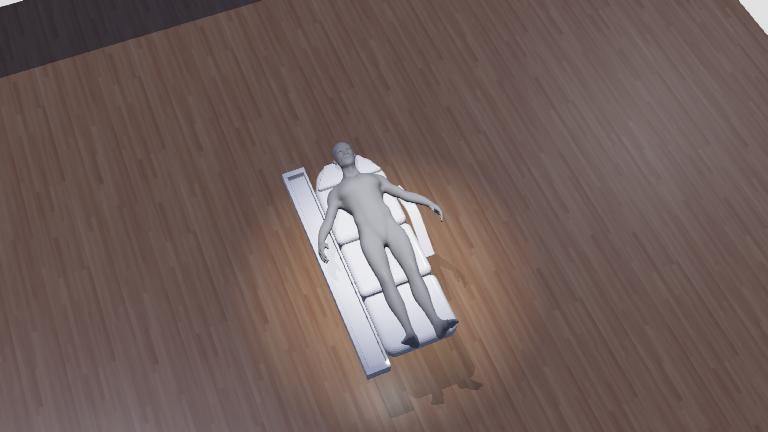
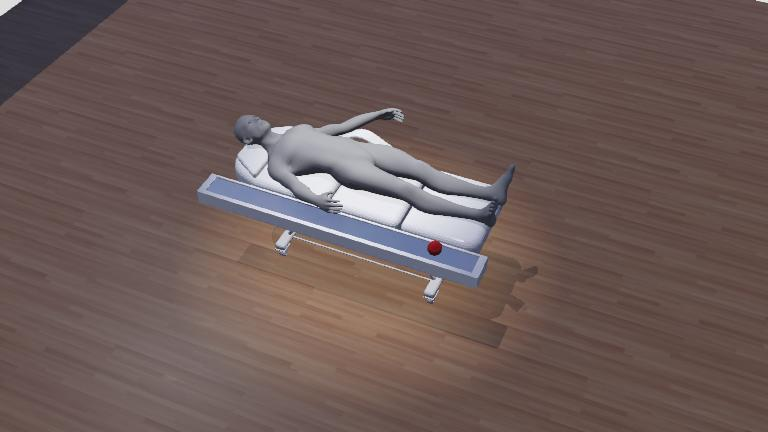
implement slider control based on camera body part tracking

diff --git a/controllers/camera/camera.py b/controllers/camera/camera.py
@@ -1,7 +1,8 @@
-from controller import Robot
+from controller import Robot, Keyboard
 import cv2
 import numpy as np
 import mediapipe as mp
+import struct
 
 mp_pose = mp.solutions.pose
 mp_drawing = mp.solutions.drawing_utils
@@ -12,38 +13,53 @@ pose = mp_pose.Pose(
     min_tracking_confidence=0.5)
 
 BODY_PARTS = {
+    "TESTA": [
+        mp_pose.PoseLandmark.NOSE,
+        mp_pose.PoseLandmark.LEFT_EYE,
+        mp_pose.PoseLandmark.RIGHT_EYE,
+        mp_pose.PoseLandmark.LEFT_EAR,
+        mp_pose.PoseLandmark.RIGHT_EAR
+    ],
     "TORACE": [
         mp_pose.PoseLandmark.LEFT_SHOULDER,
         mp_pose.PoseLandmark.RIGHT_SHOULDER,
         mp_pose.PoseLandmark.LEFT_HIP,
         mp_pose.PoseLandmark.RIGHT_HIP
     ],
+    "GAMBE": [
+        mp_pose.PoseLandmark.LEFT_KNEE,
+        mp_pose.PoseLandmark.RIGHT_KNEE,
+        mp_pose.PoseLandmark.LEFT_ANKLE,
+        mp_pose.PoseLandmark.RIGHT_ANKLE
+    ]
 }
 
-def draw_body_part_box(frame, landmarks, part_name, width, height):
-    if part_name not in BODY_PARTS:
-        return
+def draw_body_part_box(frame, landmarks, part_name, width, height, is_selected=False):
+    if part_name not in BODY_PARTS: return
     points = [landmarks[lm.value] for lm in BODY_PARTS[part_name]]
-    if not all(p.visibility > 0.5 for p in points):
-        return
-    x_min = int(min(p.x for p in points) * width)
-    y_min = int(min(p.y for p in points) * height)
-    x_max = int(max(p.x for p in points) * width)
-    y_max = int(max(p.y for p in points) * height)
+    if not all(p.visibility > 0.5 for p in points): return
+
+    x_vals = [p.x for p in points]
+    y_vals = [p.y for p in points]
+    
+    x_min, x_max = int(min(x_vals) * width), int(max(x_vals) * width)
+    y_min, y_max = int(min(y_vals) * height), int(max(y_vals) * height)
+    
     margin = 10
-    cv2.rectangle(frame, (x_min - margin, y_min - margin), (x_max + margin, y_max + margin), (0, 255, 0), 2)
-    cv2.putText(frame, part_name, (x_min - margin, y_min - margin - 10), cv2.FONT_HERSHEY_SIMPLEX, 0.7, (0, 255, 0), 2)
+    color = (0, 0, 255) if is_selected else (0, 255, 0)
+    thickness = 3 if is_selected else 2
+
+    cv2.rectangle(frame, (x_min - margin, y_min - margin), (x_max + margin, y_max + margin), color, thickness)
+    cv2.putText(frame, part_name, (x_min - margin, y_min - margin - 10), 
+                cv2.FONT_HERSHEY_SIMPLEX, 0.7, color, 2)
 
 def get_part_center(landmarks, part_name, width, height):
-    if part_name not in BODY_PARTS:
-        return None
+    if part_name not in BODY_PARTS: return None
     points = [landmarks[lm.value] for lm in BODY_PARTS[part_name]]
-    if not all(p.visibility > 0.5 for p in points):
-        return None
+    if not all(p.visibility > 0.5 for p in points): return None
     
     u = int(np.mean([p.x for p in points]) * width)
     v = int(np.mean([p.y for p in points]) * height)
-    
     return (u, v)
 
 robot = Robot()
@@ -54,87 +70,86 @@ camera.enable(timestep)
 width = camera.getWidth()
 height = camera.getHeight()
 fov = camera.getFov()
+focal_length = (width / 2) / np.tan(fov / 2)
 
 try:
     range_finder = robot.getDevice('range-finder')
     range_finder.enable(timestep)
-    depth_width = range_finder.getWidth()
-    depth_height = range_finder.getHeight()
-except Exception as e:
-    print(f"Errore: Impossibile trovare 'range-finder'. {e}")
-    print("Assicurati di aver aggiunto un RangeFinder al robot in Webots.")
-    robot.step(-1)
+except:
+    print("Errore: Range-finder non trovato.")
 
-if width != depth_width or height != depth_height:
-    print("Errore: Le dimensioni della camera RGB e del RangeFinder non corrispondono!")
-    robot.step(-1)
+emitter = robot.getDevice('emitter') 
+emitter.setChannel(1) 
 
-focal_length = (width / 2) / np.tan(fov / 2)
-print(f"Camera Info: {width}x{height}, FoV: {fov:.2f} rad, Lunghezza Focale: {focal_length:.2f} px")
+keyboard = robot.getKeyboard()
+keyboard.enable(timestep)
+
+print("--- CONTROLLER AVVIATO ---")
+print("Comandi Tastiera (Click sulla finestra 3D di Webots prima):")
+print(" [1] -> Seleziona TESTA")
+print(" [2] -> Seleziona TORACE")
+print(" [3] -> Seleziona GAMBE")
+print(" [0] -> Nessuna selezione")
+print(" Premi 'Q' nella finestra OpenCV per chiudere.")
+
+current_selection = None 
 
 cv2.namedWindow("Riconoscimento Corpo", cv2.WINDOW_NORMAL)
-print("Controller avviato... Premi 'q' nella finestra per uscire.")
 
 while robot.step(timestep) != -1:
+    key = keyboard.getKey()
+    if key == ord('1'): current_selection = "TESTA"
+    elif key == ord('2'): current_selection = "TORACE"
+    elif key == ord('3'): current_selection = "GAMBE"
+    elif key == ord('0'): current_selection = None
+
     image_data = camera.getImage()
     depth_data = range_finder.getRangeImage()
-
-    if not image_data or not depth_data:
-        continue
+    if not image_data or not depth_data: continue
     
     image = np.frombuffer(image_data, np.uint8).reshape((height, width, 4))
     frame_bgr = cv2.cvtColor(image, cv2.COLOR_BGRA2BGR)
     frame_rgb = cv2.cvtColor(frame_bgr, cv2.COLOR_BGR2RGB)
-    
     depth_image = np.array(depth_data, dtype=np.float32).reshape((height, width))
 
     results = pose.process(frame_rgb)
 
     if results.pose_landmarks:
-        mp_drawing.draw_landmarks(frame_bgr, results.pose_landmarks, mp_pose.POSE_CONNECTIONS)
-        
         landmarks = results.pose_landmarks.landmark
-        
-        draw_body_part_box(frame_bgr, landmarks, "TORACE", width, height)
-        
-        target_2d = get_part_center(landmarks, "TORACE", width, height)
-        
-        if target_2d:
-            u, v = target_2d
-            
-            cv2.circle(frame_bgr, (u, v), 10, (0, 0, 255), -1)
 
-            box_size = 7
-            half_box = box_size // 2
+        for part in BODY_PARTS:
+            is_selected = (part == current_selection)
+            draw_body_part_box(frame_bgr, landmarks, part, width, height, is_selected)
+
+        if current_selection:
+            target_2d = get_part_center(landmarks, current_selection, width, height)
             
-            y_min_roi = max(0, v - half_box)
-            y_max_roi = min(height, v + half_box + 1)
-            x_min_roi = max(0, u - half_box)
-            x_max_roi = min(width, u + half_box + 1)
-            
-            depth_roi = depth_image[y_min_roi:y_max_roi, x_min_roi:x_max_roi]
-            
-            valid_depths = depth_roi[depth_roi > 0.01]
-            
-            if valid_depths.size > 0:
-                Z = np.median(valid_depths)
-            else:
-                Z = 0.0
-            
-            if Z > 0.01 and Z < 20.0:
-               
-                X = (u - width / 2) * Z / focal_length
+            if target_2d:
+                u, v = target_2d
+                box_size = 10
+                y_min_roi = max(0, v - box_size)
+                y_max_roi = min(height, v + box_size)
+                x_min_roi = max(0, u - box_size)
+                x_max_roi = min(width, u + box_size)
                 
-                Y = (v - height / 2) * Z / focal_length
+                depth_roi = depth_image[y_min_roi:y_max_roi, x_min_roi:x_max_roi]
+                valid_depths = depth_roi[depth_roi > 0.01]
                 
-                print(f"Target 3D Stabile (X,Y,Z): ({X: .2f}m, {Y: .2f}m, {Z: .2f}m)")
-                
-                coord_text = f"X:{X:.2f} Y:{Y:.2f} Z:{Z:.2f}"
-                cv2.putText(frame_bgr, coord_text, (u - 50, v - 20), 
-                            cv2.FONT_HERSHEY_SIMPLEX, 0.6, (0, 0, 255), 2)
-            else:
-                cv2.putText(frame_bgr, "Distanza non valida", (u - 50, v - 20), 
-                            cv2.FONT_HERSHEY_SIMPLEX, 0.6, (255, 0, 0)),
+                if valid_depths.size > 0:
+                    Z = np.median(valid_depths)
+                    
+                    if 0.1 < Z < 5.0:
+                        X = (u - width / 2) * Z / focal_length
+                        Y = (v - height / 2) * Z / focal_length
+
+                        message = f"{current_selection},{X:.3f},{Y:.3f},{Z:.3f}"
+                        
+                        emitter.send(message.encode('utf-8'))
+                        
+                        cv2.circle(frame_bgr, (u, v), 8, (0, 0, 255), -1)
+                        cv2.putText(frame_bgr, f"SENDING: {current_selection}", (u, v-30), 
+                                    cv2.FONT_HERSHEY_SIMPLEX, 0.6, (0, 0, 255), 2)
+                        # print(f"Inviato a Robot: {message}")
 
     cv2.imshow("Riconoscimento Corpo", frame_bgr)
     if cv2.waitKey(1) & 0xFF == ord('q'):

diff --git a/controllers/slider_test/slider_test.py b/controllers/slider_test/slider_test.py
@@ -1,0 +1,37 @@
+from controller import Robot
+
+robot = Robot()
+timestep = int(robot.getBasicTimeStep())
+
+receiver = robot.getDevice('receiver')
+receiver.enable(timestep)
+
+slider = robot.getDevice('slider_piston_base')
+
+slider.setVelocity(1.0) 
+slider.setPosition(0.0) 
+
+print("Controller slider pronto...")
+
+while robot.step(timestep) != -1:
+    if receiver.getQueueLength() > 0:
+        message = receiver.getString()
+        receiver.nextPacket()
+        
+        try:
+            parts = message.split(',')
+            target_name = parts[0]
+            x_cam = float(parts[1])
+            y_cam = float(parts[2])
+            z_cam = float(parts[3])
+
+            raw_target = y_cam 
+
+            clamped_target = max(-1.0, min(1.0, raw_target)) * 1.2
+
+            print(f"Target: {target_name} | Raw Y: {y_cam:.2f} -> Slider: {clamped_target:.2f}")
+
+            slider.setPosition(clamped_target)
+
+        except Exception as e:
+            print(f"Errore parsing: {e}")
